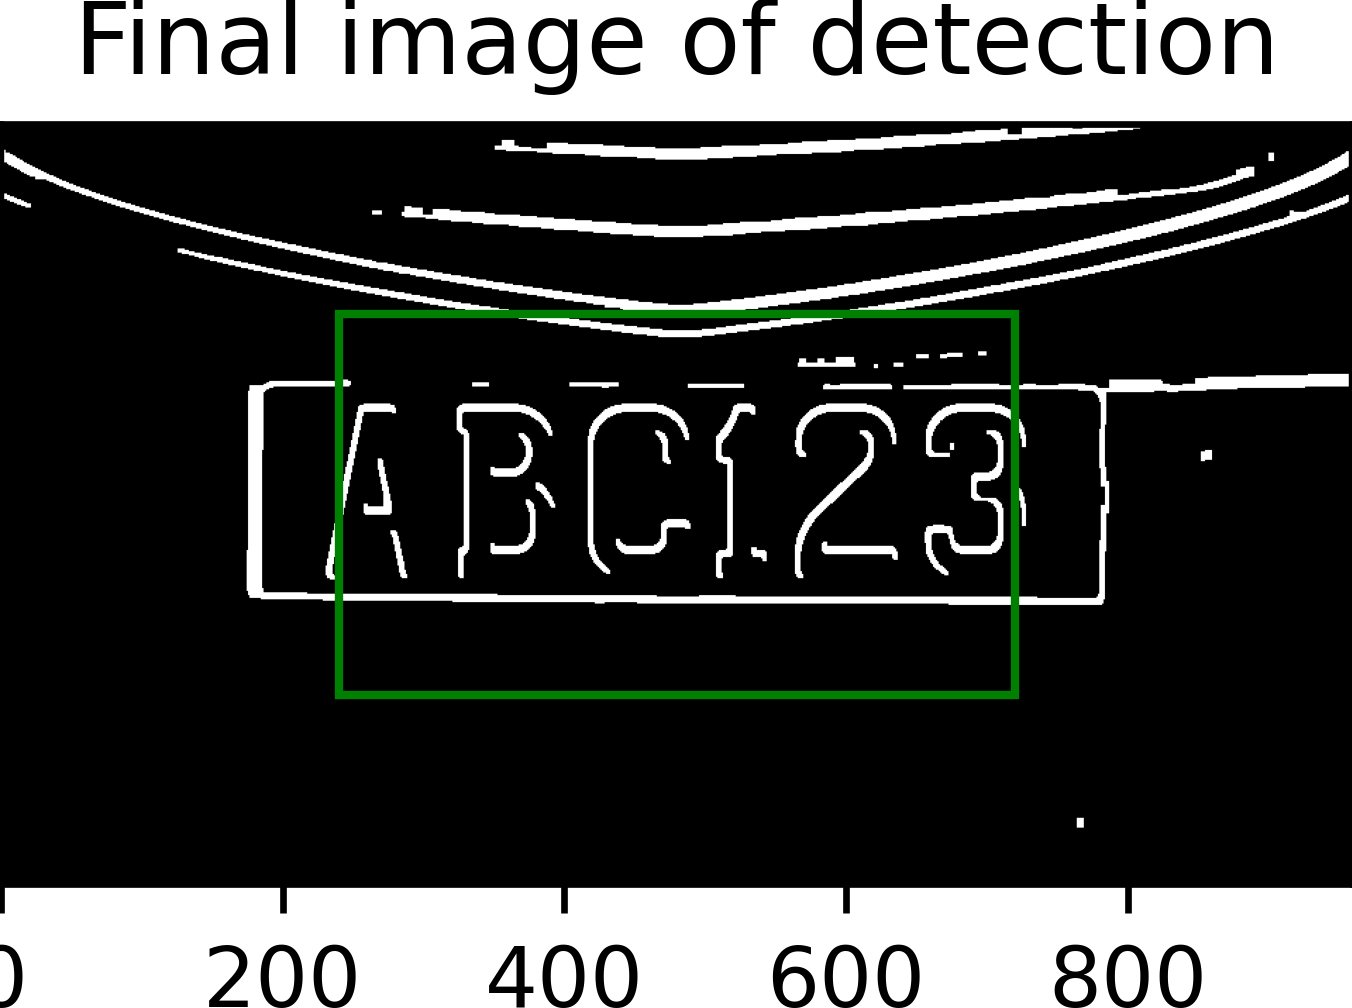
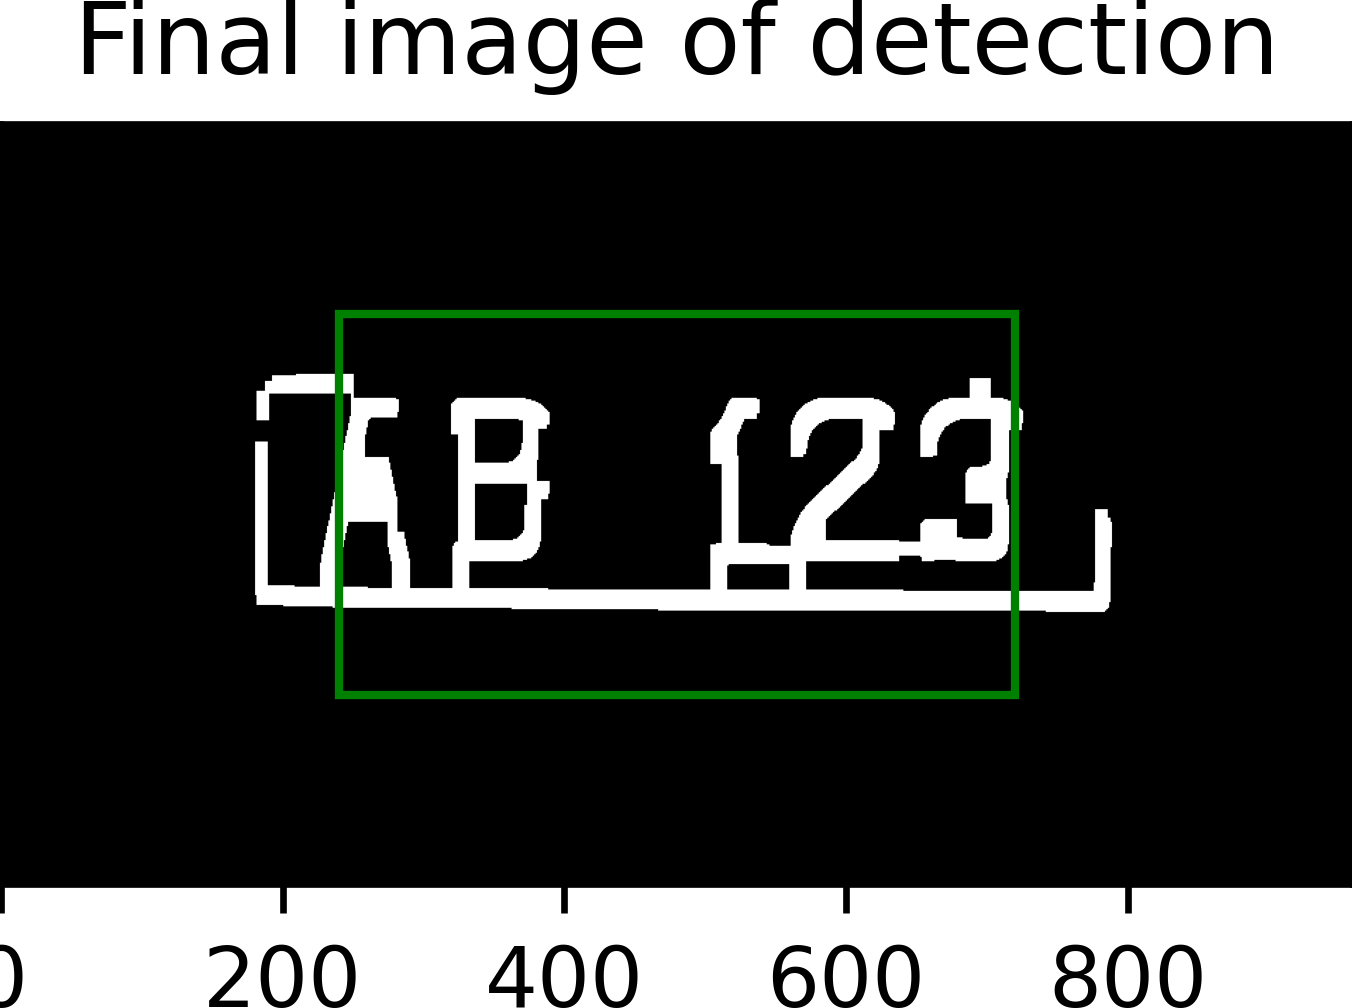
connected component with sd constrast twice

diff --git a/CS373LicensePlateDetection.py b/CS373LicensePlateDetection.py
@@ -176,6 +176,58 @@ def computeErosion8Nbh3x3FlatSE(pixel_array, image_width, image_height):
                         result[r][c] = 1
     return result
 
+# get connected components
+def computeConnectedComponentLabeling(pixel_array, image_width, image_height):
+    result = createInitializedGreyscalePixelArray(image_width, image_height)
+    components = {}
+    visited = {}
+    count = 1
+    for r in range(image_height):
+        for c in range(image_width):
+            if pixel_array[r][c] != 0 and (r not in visited or c not in visited[r]):
+                queue = []
+                queue.append((r, c))
+                components[count] = 0
+                if r in visited:
+                    visited[r].append(c)
+                else:
+                    visited[r] = [c]
+                while len(queue) != 0:
+                    (c1, c2) = queue.pop(0)
+                    result[c1][c2] = count
+                    components[count] += 1
+
+                    if c1 not in visited:
+                        if c2 > 0 and pixel_array[c1][c2 - 1] != 0:
+                            queue.append((c1, c2 - 1))
+                            visited[c1] = [c2 - 1]
+                        elif c2 < image_width - 1 and pixel_array[c1][c2 + 1] != 0:
+                            queue.append((c1, c2 + 1))
+                            visited[c1] = [c2 + 1]
+                    elif c2 > 0 and c2 - 1 not in visited[c1] and pixel_array[c1][c2 - 1] != 0:
+                        queue.append((c1, c2 - 1))
+                        visited[c1].append(c2 - 1)
+                    elif c2 < image_width - 1 and c2 + 1 not in visited[c1] and pixel_array[c1][c2 + 1] != 0:
+                        queue.append((c1, c2 + 1))
+                        visited[c1].append(c2 + 1)
+
+                    if c1 > 0 and pixel_array[c1 - 1][c2] != 0:
+                        if c1 - 1 not in visited:
+                            queue.append((c1 - 1, c2))
+                            visited[c1 - 1] = [c2]
+                        elif c2 not in visited[c1 - 1]:
+                            queue.append((c1 - 1, c2))
+                            visited[c1 - 1].append(c2)
+                    if c1 < image_height - 1 and pixel_array[c1 + 1][c2] != 0:
+                        if c1 + 1 not in visited:
+                            queue.append((c1 + 1, c2))
+                            visited[c1 + 1] = [c2]
+                        elif c2 not in visited[c1 + 1]:
+                            queue.append((c1 + 1, c2))
+                            visited[c1 + 1].append(c2)
+                count += 1
+    return result, components
+
 
 # This is our code skeleton that performs the license plate detection.
 # Feel free to try it on your own images of cars, but keep in mind that with our algorithm developed in this lecture,
@@ -186,7 +238,7 @@ def main():
     SHOW_DEBUG_FIGURES = True
 
     # this is the default input image filename
-    input_filename = "numberplate5.png"
+    input_filename = "numberplate3.png"
 
     if command_line_arguments != []:
         input_filename = command_line_arguments[0]
@@ -226,31 +278,57 @@ def main():
     print("standard deviation done")
 
     # stretch high contrast image to 0 to 255 range
-    secondStretch = stretch(sd_array, image_height, image_width)
+    second_stretch = stretch(sd_array, image_height, image_width)
+    print("stretched again")
+
+    sd_array = getStandardDeviation(second_stretch, image_width, image_height)
+    print("standard deviation done")
+
+    # stretch high contrast image to 0 to 255 range
+    second_stretch = stretch(sd_array, image_height, image_width)
     print("stretched again")
 
     # calculate threshold
-    threshold = getThreshold(secondStretch, image_height, image_width)
+    threshold = getThreshold(second_stretch, image_height, image_width)
     print("calculated threshold = ", threshold)
 
-    threshold_array = getThresholdArray(secondStretch, image_width, image_height, threshold)
+    threshold_array = getThresholdArray(second_stretch, image_width, image_height, 150)
     print("threshold_array done")
 
     dilated_array = computeDilation8Nbh3x3FlatSE(threshold_array, image_width, image_height)
     dilated_array = computeDilation8Nbh3x3FlatSE(dilated_array, image_width, image_height)
     dilated_array = computeDilation8Nbh3x3FlatSE(dilated_array, image_width, image_height)
     dilated_array = computeDilation8Nbh3x3FlatSE(dilated_array, image_width, image_height)
-    print("dilation x 4")
+    dilated_array = computeDilation8Nbh3x3FlatSE(dilated_array, image_width, image_height)
+    dilated_array = computeDilation8Nbh3x3FlatSE(dilated_array, image_width, image_height)
+    dilated_array = computeDilation8Nbh3x3FlatSE(dilated_array, image_width, image_height)
+    dilated_array = computeDilation8Nbh3x3FlatSE(dilated_array, image_width, image_height)
+    dilated_array = computeDilation8Nbh3x3FlatSE(dilated_array, image_width, image_height)
+    dilated_array = computeDilation8Nbh3x3FlatSE(dilated_array, image_width, image_height)
+    dilated_array = computeDilation8Nbh3x3FlatSE(dilated_array, image_width, image_height)
+    print("dilation x 11")
 
     eroded_array = computeErosion8Nbh3x3FlatSE(dilated_array, image_width, image_height)
     eroded_array = computeErosion8Nbh3x3FlatSE(eroded_array, image_width, image_height)
     eroded_array = computeErosion8Nbh3x3FlatSE(eroded_array, image_width, image_height)
-    print("erosion x 3")
+    eroded_array = computeErosion8Nbh3x3FlatSE(eroded_array, image_width, image_height)
+    eroded_array = computeErosion8Nbh3x3FlatSE(eroded_array, image_width, image_height)
+    eroded_array = computeErosion8Nbh3x3FlatSE(eroded_array, image_width, image_height)
+    eroded_array = computeErosion8Nbh3x3FlatSE(eroded_array, image_width, image_height)
+    print("erosion x 7")
+
+    connectedComponents, dict = computeConnectedComponentLabeling(eroded_array, image_width, image_height)
+    print(dict)
+
+    max_key = max(dict, key=dict.get)
+    for r in range(image_height):
+        for c in range(image_width):
+            if connectedComponents[r][c] != max_key:
+                connectedComponents[r][c] = 0
 
     #  STUDENT IMPLEMENTATION END
 
-    # oneFivty = getThresholdArray(secondStretch, image_width, image_height, 150)
-    px_array = eroded_array
+    px_array = connectedComponents
 
     # compute a dummy bounding box centered in the middle of the input image, and with as size of half of width and height
     center_x = image_width / 2.0
